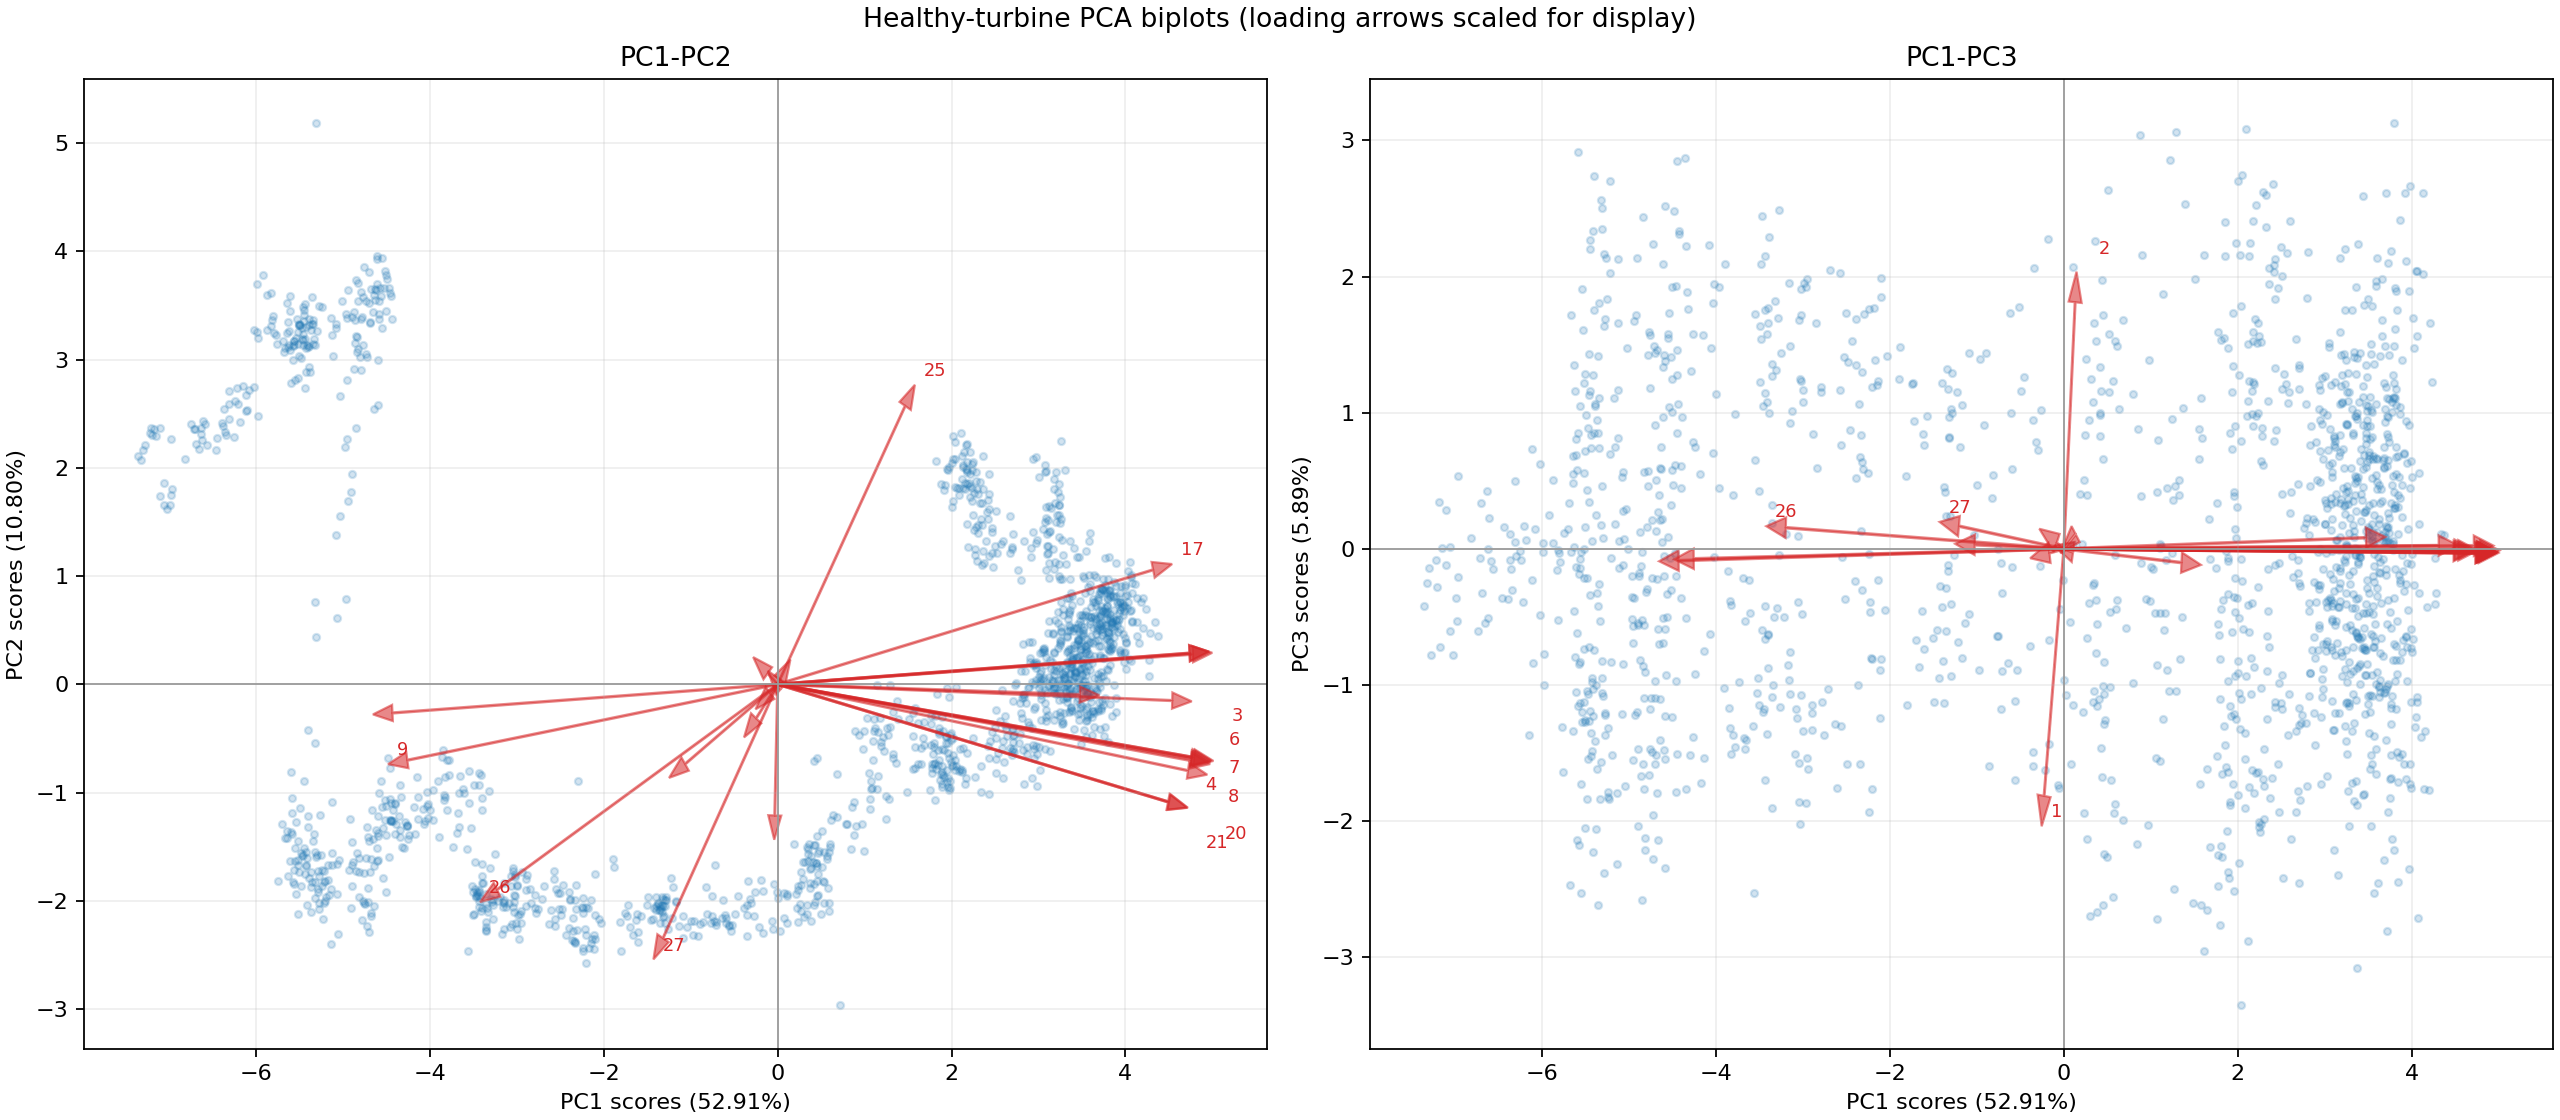
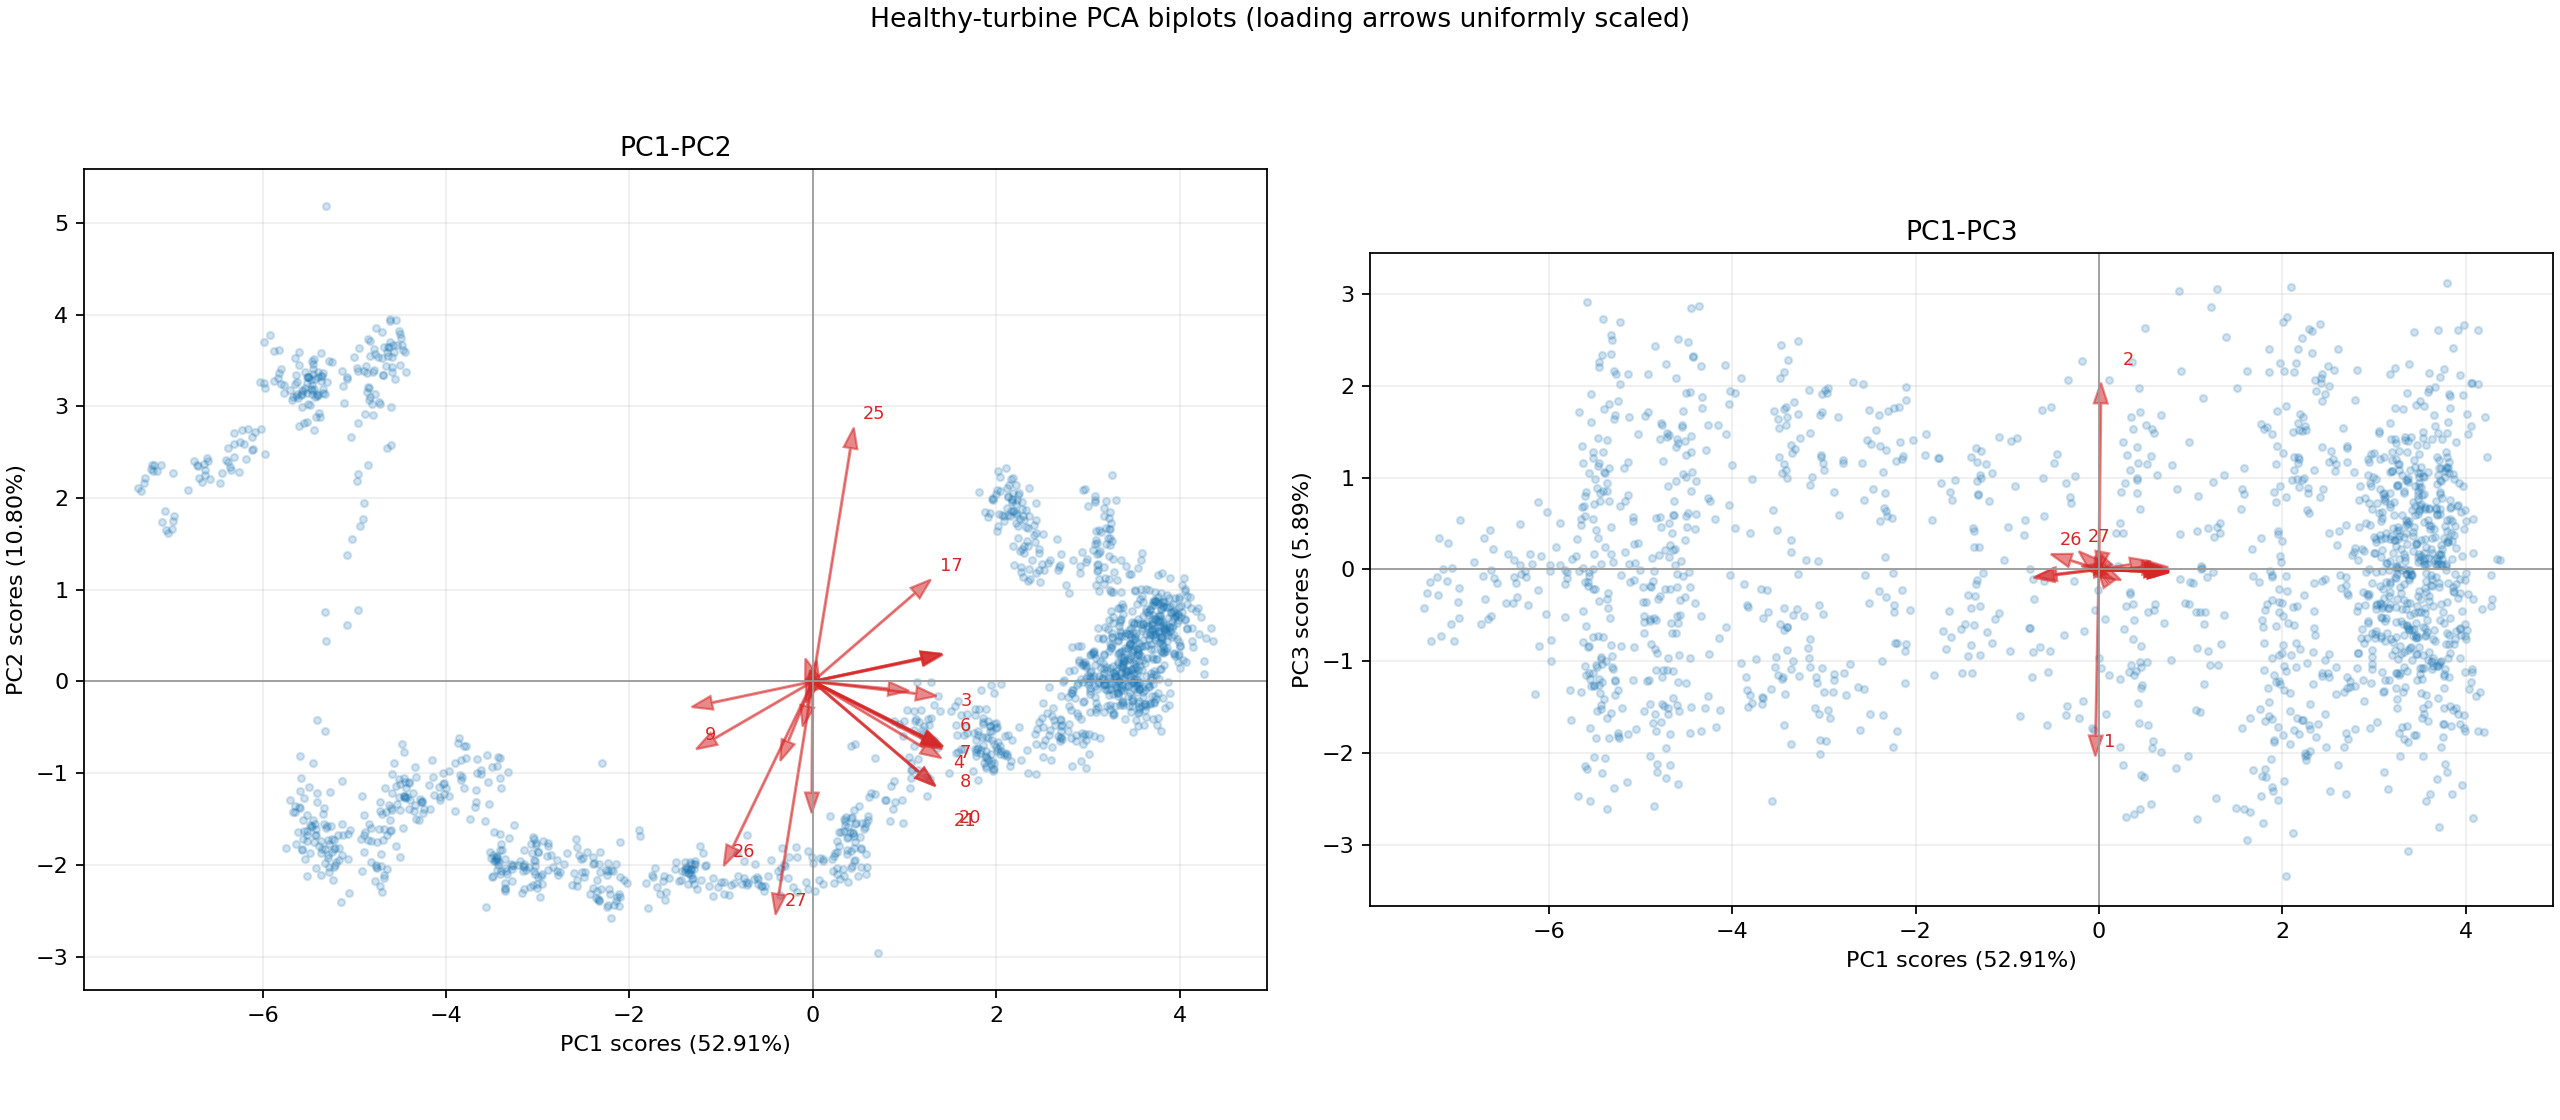
Changes: - Biplot arrows now use one common scale per panel, preserving their relative directions and angles. - Equal axis scaling was added to prevent visual angle distortion. - Comments now state that correlations should primarily be interpreted from the loading plot. - Variable 9 is explicitly re

diff --git a/src/pca_healthy_turbine.py b/src/pca_healthy_turbine.py
@@ -53,8 +53,9 @@ def main() -> None:
     pca_x = {name: data.loc[:, pca_variables] for name, data in aligned.items()}
     healthy_x = pca_x[HEALTHY_TURBINE]
 
-    # Autoscale with the healthy-turbine mean and sample standard deviation.
-    # This follows the course guidance that variance acts as a weight in PCA.
+    # Fit pretreatment only on the healthy turbine. Any later turbine must use
+    # these fixed means and scales; the PCA model must not be refitted.
+    # Autoscaling follows the course guidance that variance acts as a weight.
     healthy_mean = healthy_x.mean()
     healthy_scale = healthy_x.std(ddof=1)
     healthy_x_scaled = (healthy_x - healthy_mean) / healthy_scale
@@ -90,6 +91,14 @@ def main() -> None:
         print(f"{name}: {data.shape[0]} observations x {data.shape[1]} variables")
     print(f"Final healthy PCA X: {healthy_x.shape[0]} observations x {healthy_x.shape[1]} variables")
     print("Pretreatment: mean-centering and unit-variance scaling using No.2WT statistics")
+    variable_9 = healthy_x[9]
+    print(
+        "Variable 9 retained: it is not constant "
+        f"({variable_9.nunique()} unique values, raw range "
+        f"{variable_9.max() - variable_9.min():.3g}). Its low relative raw "
+        "variation is influenced by its large offset; autoscaling gives it "
+        "unit variance like the other retained variables."
+    )
 
     print("\nExplained variance")
     for component in range(5):
@@ -243,15 +252,17 @@ def create_pca_plots(
     fig.savefig(OUTPUT_DIR / "pca_healthy_loading_contributions.png", dpi=160)
     plt.close(fig)
 
-    # Biplots combine scores with loading directions. All arrows are shown;
-    # labels are limited to the strongest directions to keep the plots legible.
+    # Biplots combine scores with loading directions. One common scale factor
+    # is used for both arrow coordinates so their relative angles are preserved.
+    # Correlations are interpreted primarily from the separate loading plot.
     biplot_pairs = [(0, 1), (0, 2)]
     fig, axes = plt.subplots(1, 2, figsize=(16, 7), constrained_layout=True)
     for axis, (x_pc, y_pc) in zip(axes, biplot_pairs):
         axis.scatter(scores[:, x_pc], scores[:, y_pc], color="tab:blue", s=10, alpha=0.2)
         score_extent = np.percentile(np.abs(scores[:, [x_pc, y_pc]]), 98, axis=0)
         loading_pair = loadings[:, [x_pc, y_pc]]
-        arrow_scale = 0.78 * score_extent / np.max(np.abs(loading_pair), axis=0)
+        component_limits = score_extent / np.max(np.abs(loading_pair), axis=0)
+        arrow_scale = 0.78 * component_limits.min()
         if y_pc == 1:
             label_indices = set(
                 np.argsort(np.linalg.norm(loading_pair, axis=1))[::-1][:12]
@@ -261,8 +272,8 @@ def create_pca_plots(
             # loadings are almost equal and their labels would overlap.
             label_indices = set(np.argsort(np.abs(loadings[:, y_pc]))[::-1][:4])
         for index, (variable, loading) in enumerate(zip(variables, loading_pair)):
-            end_x = loading[0] * arrow_scale[0]
-            end_y = loading[1] * arrow_scale[1]
+            end_x = loading[0] * arrow_scale
+            end_y = loading[1] * arrow_scale
             axis.arrow(0, 0, end_x, end_y, color="tab:red", alpha=0.55,
                        width=0.01, head_width=0.15, length_includes_head=True)
             if index in label_indices:
@@ -274,8 +285,9 @@ def create_pca_plots(
         axis.set_xlabel(f"PC{x_pc + 1} scores ({100 * explained_ratio[x_pc]:.2f}%)")
         axis.set_ylabel(f"PC{y_pc + 1} scores ({100 * explained_ratio[y_pc]:.2f}%)")
         axis.set_title(f"PC{x_pc + 1}-PC{y_pc + 1}")
+        axis.set_aspect("equal", adjustable="box")
         axis.grid(alpha=0.2)
-    fig.suptitle("Healthy-turbine PCA biplots (loading arrows scaled for display)")
+    fig.suptitle("Healthy-turbine PCA biplots (loading arrows uniformly scaled)")
     fig.savefig(OUTPUT_DIR / "pca_healthy_biplot.png", dpi=160)
     plt.close(fig)
 
